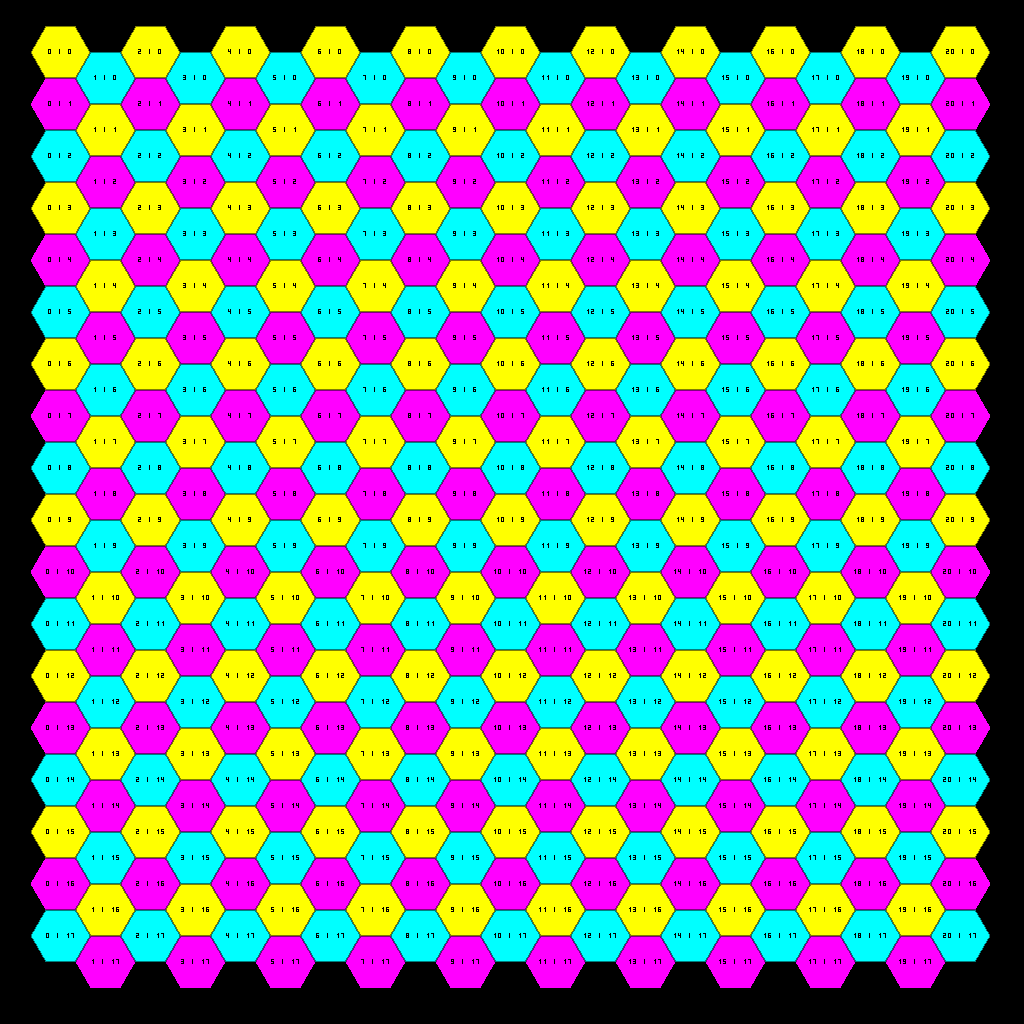
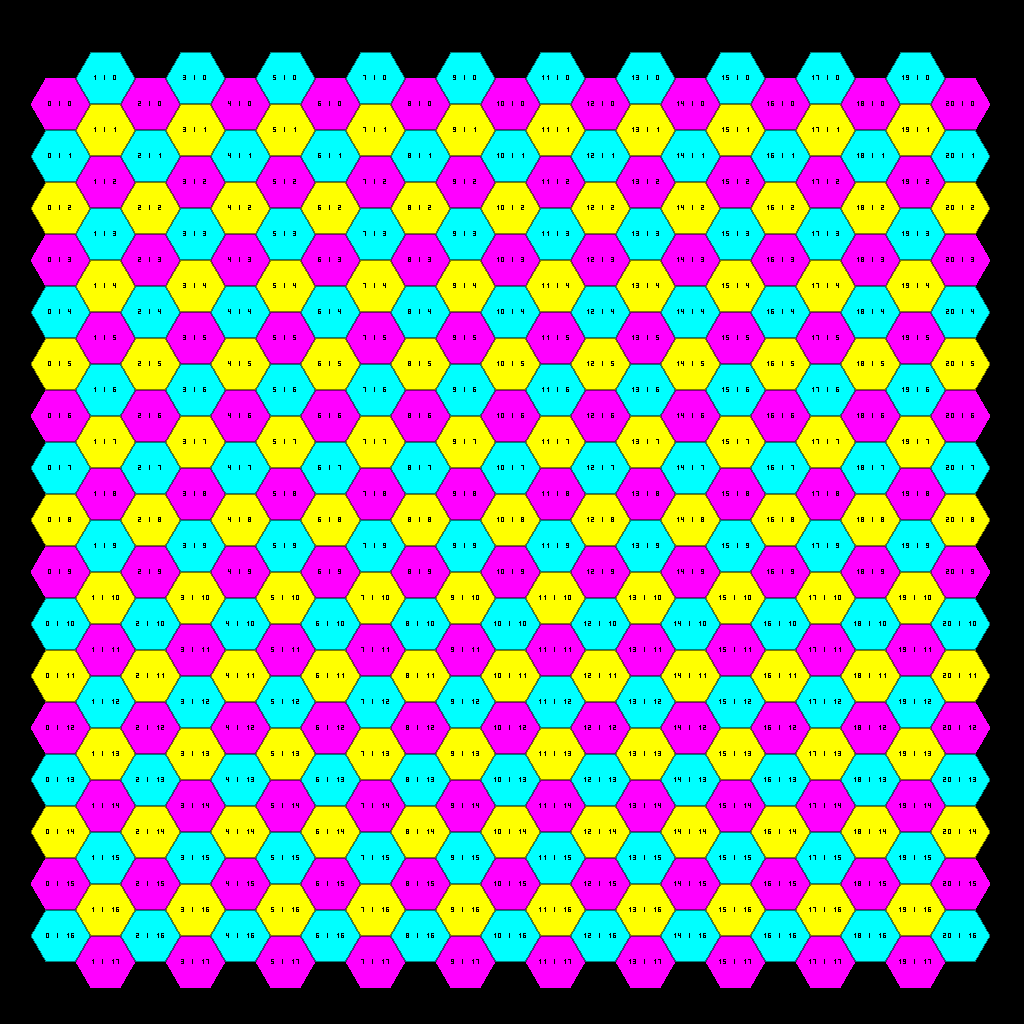
Add files via upload
fixed a little bug with the text rendering. (y coordinates were off, in the uneven columns)

diff --git a/Main.java b/Main.java
@@ -1,0 +1,271 @@
+package main;
+
+import java.awt.image.BufferedImage;
+import java.io.File;
+import java.io.IOException;
+
+import javax.imageio.ImageIO;
+
+public class Main {
+	
+	private static final int ALPHA_BYTE = 3;
+	private static final int RED_BYTE   = 2;
+	private static final int GREEN_BYTE = 1;
+	private static final int BLUE_BYTE  = 0;
+	
+	private static final int BLACK = 0xFF << (ALPHA_BYTE * 8);
+	private static final int RED   = BLACK | (0xFF << (RED_BYTE   * 8));
+	private static final int GREEN = BLACK | (0xFF << (GREEN_BYTE * 8));
+	private static final int BLUE  = BLACK | (0xFF << (BLUE_BYTE  * 8));
+	
+	private static final int DARK_RED   = BLACK | (0x7F << (RED_BYTE   * 8));
+	private static final int DARK_GREEN = BLACK | (0x7F << (GREEN_BYTE * 8));
+	private static final int DARK_BLUE  = BLACK | (0x7F << (BLUE_BYTE  * 8));
+	
+	//private static final int WHITE   = RED   | GREEN | BLUE;
+	private static final int PINK    = RED   | BLUE;
+	private static final int CYAN    = GREEN | BLUE;
+	private static final int YELLOW  = RED   | GREEN;
+	
+	//private static final int GREY         = DARK_RED   | DARK_GREEN | DARK_BLUE;
+	private static final int DARK_PINK    = DARK_RED   | DARK_BLUE;
+	private static final int DARK_CYAN    = DARK_GREEN | DARK_BLUE;
+	private static final int DARK_YELLOW  = DARK_RED   | DARK_GREEN;
+	
+	private static final int LIGHT_PINK   = RED | DARK_GREEN | BLUE;
+	private static final int LIGHT_CYAN   = DARK_RED | GREEN | BLUE;
+	private static final int LIGHT_YELLOW = RED | GREEN | DARK_BLUE;
+	
+	private static final boolean[][][] DIGIT_MASKS = {//[10][7][5]
+        {
+        	{false, false, false, false, false},
+        	{false, true , true , true , false},
+        	{false, true , false, true , false},
+        	{false, true , false, true , false},
+        	{false, true , false, true , false},
+        	{false, true , true , true , false},
+        	{false, false, false, false, false}
+        },
+        {
+        	{false, false, false, false, false},
+        	{false, false, false, true , false},
+        	{false, false, true , true , false},
+        	{false, false, false, true , false},
+        	{false, false, false, true , false},
+        	{false, false, false, true , false},
+        	{false, false, false, false, false}
+        },
+        {
+        	{false, false, false, false, false},
+        	{false, true , true , true , false},
+        	{false, false, false, true , false},
+        	{false, true , true , true , false},
+        	{false, true , false, false, false},
+        	{false, true , true , true , false},
+        	{false, false, false, false, false}
+        },
+        {
+        	{false, false, false, false, false},
+        	{false, true , true , true , false},
+        	{false, false, false, true , false},
+        	{false, true , true , true , false},
+        	{false, false, false, true , false},
+        	{false, true , true , true , false},
+        	{false, false, false, false, false}
+        },
+        {
+        	{false, false, false, false, false},
+        	{false, true , false, true , false},
+        	{false, true , false, true , false},
+        	{false, true , true , true , false},
+        	{false, false, false, true , false},
+        	{false, false, false, true , false},
+        	{false, false, false, false, false}
+        },
+        {
+        	{false, false, false, false, false},
+        	{false, true , true , true , false},
+        	{false, true , false, false, false},
+        	{false, true , true , true , false},
+        	{false, false, false, true , false},
+        	{false, true , true , true , false},
+        	{false, false, false, false, false}
+        },
+        {
+        	{false, false, false, false, false},
+        	{false, true , true , true , false},
+        	{false, true , false, false, false},
+        	{false, true , true , true , false},
+        	{false, true , false, true , false},
+        	{false, true , true , true , false},
+        	{false, false, false, false, false}
+        },
+        {
+        	{false, false, false, false, false},
+        	{false, true , true , true , false},
+        	{false, false, false, true , false},
+        	{false, false, false, true , false},
+        	{false, false, false, true , false},
+        	{false, false, false, true , false},
+        	{false, false, false, false, false}
+        },
+        {
+        	{false, false, false, false, false},
+        	{false, true , true , true , false},
+        	{false, true , false, true , false},
+        	{false, true , true , true , false},
+        	{false, true , false, true , false},
+        	{false, true , true , true , false},
+        	{false, false, false, false, false}
+        },
+        {
+        	{false, false, false, false, false},
+        	{false, true , true , true , false},
+        	{false, true , false, true , false},
+        	{false, true , true , true , false},
+        	{false, false, false, true , false},
+        	{false, true , true , true , false},
+        	{false, false, false, false, false}
+        }
+    };
+	
+	private static final int IMAGE_WIDTH = 1024;
+	private static final int IMAGE_HEIGHT = 1024;
+	
+	private static final float HEX_GRID_SIZE = 30f;//>= 10 for good results / 25 when using text 
+	
+	private static final float HEX_GRID_FACTOR_X = HEX_GRID_SIZE / 2f;
+	private static final float HEX_GRID_FACTOR_Y = (float) (HEX_GRID_SIZE / 2f * Math.tan(Math.toRadians(60)));
+	
+	public static void main(String[] args) {
+		BufferedImage bufferdImage = new BufferedImage(IMAGE_WIDTH, IMAGE_HEIGHT, BufferedImage.TYPE_INT_ARGB);//0xAARRGGBB
+		
+		int[][] data = new int[IMAGE_WIDTH][IMAGE_HEIGHT];
+		int[] color = new int[]{PINK,             CYAN,       YELLOW, 
+								DARK_PINK,   DARK_CYAN,  DARK_YELLOW, 
+								LIGHT_PINK, LIGHT_CYAN, LIGHT_YELLOW, BLACK};
+		
+		//generate colors
+		for (int px = 0; px < IMAGE_WIDTH; px++) {
+			for (int py = 0; py < IMAGE_HEIGHT; py++) {
+				int[] hg = getHexGrid(px, py);
+				
+				//choose grid color based on coordinates
+				if (hg[0] == 0 || hg[0] >= (int) (IMAGE_WIDTH / (3 * HEX_GRID_FACTOR_X)) || hg[1] == 0 || hg[1] >= (int) (IMAGE_HEIGHT / (2 * HEX_GRID_FACTOR_Y))) {
+					data[px][py] = 9;
+				} else if ((hg[0] & 1) == 1 && hg[1] == 1) {
+					data[px][py] = 9;
+				} else {
+					data[px][py] = (hg[1] + ((hg[0] & 1) == 0? 0 : 1)) % 3;
+				}
+			}
+		}
+		
+		//shade edges
+		for (int px = 0; px < IMAGE_WIDTH; px++) {
+			for (int py = 0; py < IMAGE_HEIGHT; py++) {
+				if (px != 0 && py != 0 && px != IMAGE_WIDTH - 1 && py != IMAGE_HEIGHT -1 && data[px][py] != 9) {
+					int cindex = data[px][py] % 3;
+				
+					boolean top    = py > 0            && (data[px  ][py-1] % 3 != cindex);
+					boolean bottom = py < IMAGE_HEIGHT && (data[px  ][py+1] % 3 != cindex);
+					boolean left   = px > 0            && (data[px-1][py  ] % 3 != cindex);
+					boolean right  = px < IMAGE_WIDTH  && (data[px+1][py  ] % 3 != cindex);
+					
+					if (top || bottom || left || right) {
+						cindex += 3;
+					}
+					
+					data[px][py] = cindex;
+				}
+			}
+		}
+		
+		//render text
+		if (HEX_GRID_SIZE >= 19) {
+			for (int gx = 0; gx <= IMAGE_WIDTH / HEX_GRID_FACTOR_X; gx++) {
+				for (int gy = 0; gy <= IMAGE_HEIGHT / HEX_GRID_FACTOR_Y; gy++) {
+					String str = (gx - 1) + " | " + (gy - 1);
+					
+					final int px = (int) (gx * 3 * HEX_GRID_FACTOR_X + HEX_GRID_FACTOR_X - (str.length() * 5f / 2f));
+					final int py = (int) (gy * 2 * HEX_GRID_FACTOR_Y +((gx & 1) == 1? HEX_GRID_FACTOR_Y : 0) + HEX_GRID_FACTOR_Y - 3);
+					
+					for (int n = 0; n < str.length(); n++) {
+						for (int k = 0; k < 7; k++) {
+							for (int m = 0; m < 5; m++) {
+								int ix = px + 5 * n + m;
+								int iy = py + k;
+								
+								if (ix >= 0 && ix < IMAGE_WIDTH && iy >= 0 && iy < IMAGE_HEIGHT) {
+									switch (str.charAt(n)) {
+										case '|':
+										{
+											if (m == 2 && k > 0 && k < 6) {
+												data[ix][iy] = 9;
+											}
+										} break;
+										case '-':
+										{
+											if (k == 3 && m > 0 && m < 4) {
+												data[ix][iy] = 9;
+											}
+										} break;
+										
+										case '0': case '1': case '2': case '3': case '4':
+										case '5': case '6': case '7': case '8': case '9':
+										{
+											int i = Character.getNumericValue(str.charAt(n));
+											
+											if (DIGIT_MASKS[i][k][m]) {
+												data[ix][iy] = 9;
+											}
+										} break;
+										
+										default:
+											break;
+									}
+								}
+							}
+						}
+					}
+				}
+			}
+		}
+		
+		//render image
+		for (int px = 0; px < IMAGE_WIDTH; px++) {
+			for (int py = 0; py < IMAGE_HEIGHT; py++) {
+				bufferdImage.setRGB(px, py, color[data[px][py]]);
+			}
+		}
+		
+		try {
+			ImageIO.write(bufferdImage, "PNG", new File("Test.png"));
+		} catch (IOException e) {
+			e.printStackTrace();
+		}
+	}
+	
+	private static int[] getHexGrid(int px, int py) {
+		int sgx = (int) (px / HEX_GRID_FACTOR_X);
+		int sgy = (int) (py / HEX_GRID_FACTOR_Y);
+		
+		int bgx = sgx / 3;
+		int bgy = sgy / 2;
+		
+		if (sgx % 3 == 2) {
+			float ipx = px / HEX_GRID_FACTOR_X - sgx;
+			float ipy = py / HEX_GRID_FACTOR_Y - sgy;
+			
+			if (ipx > ((bgx & 1) == (sgy & 1)? ipy : (1 - ipy))) {
+				bgx += 1;
+			}
+		}
+		
+		if ((bgx & 1) == 0) {
+			return new int[] {bgx, bgy};
+		} else {
+			return new int[] {bgx, bgy + ((sgy & 1) == 0? 0 : 1)};
+		}
+	}
+}
